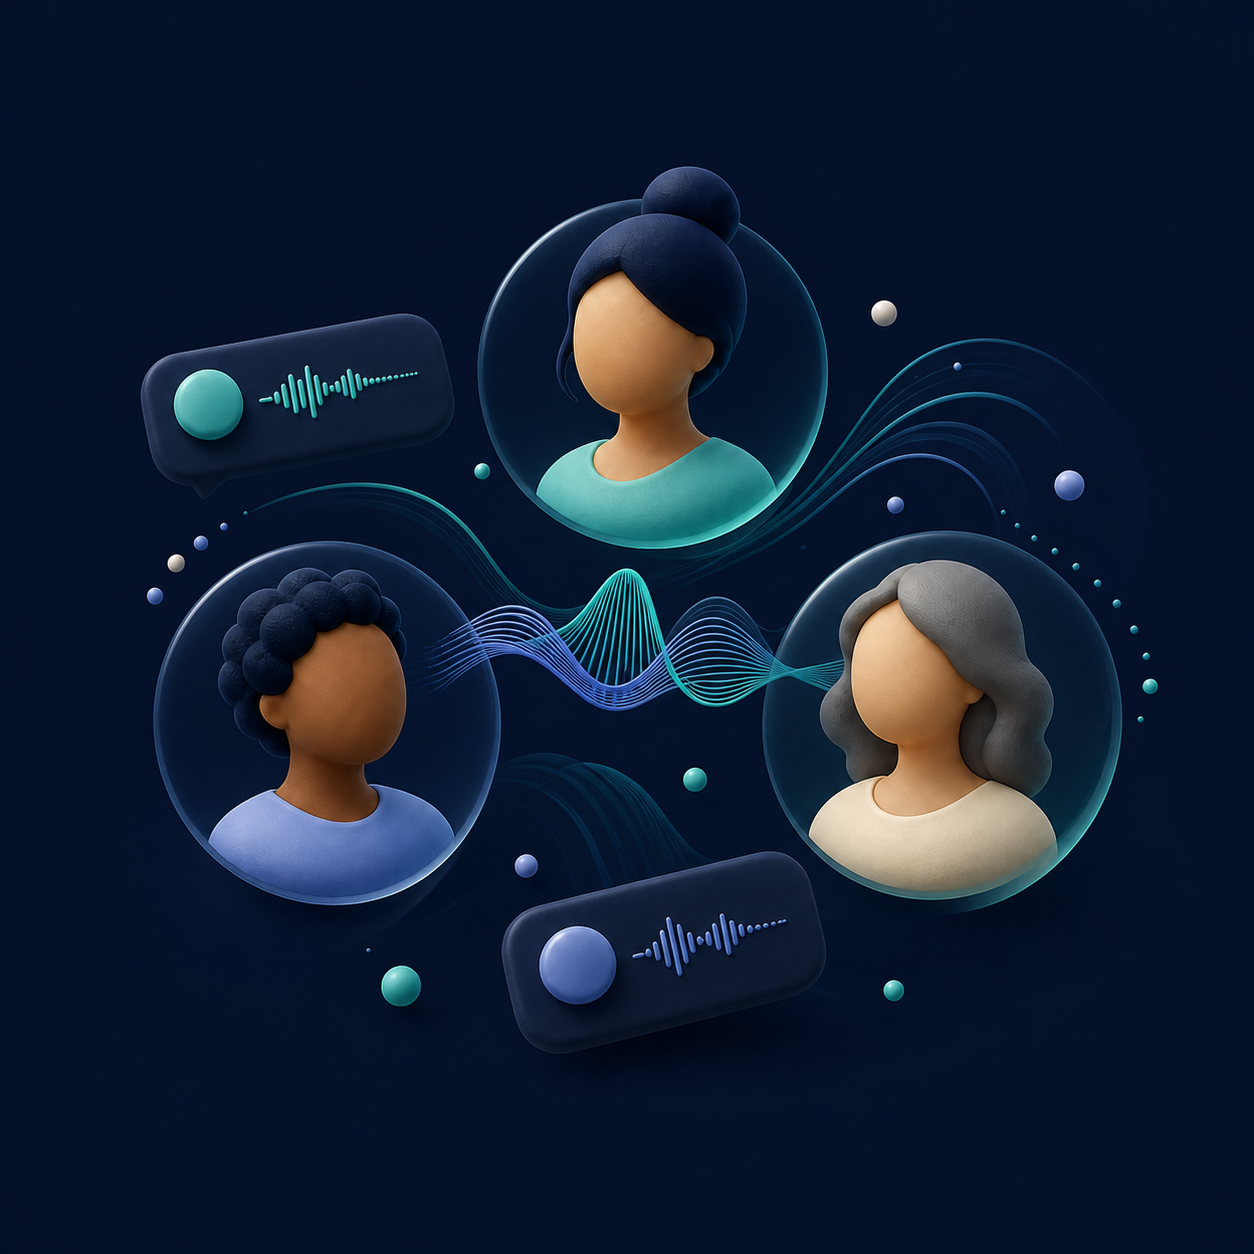
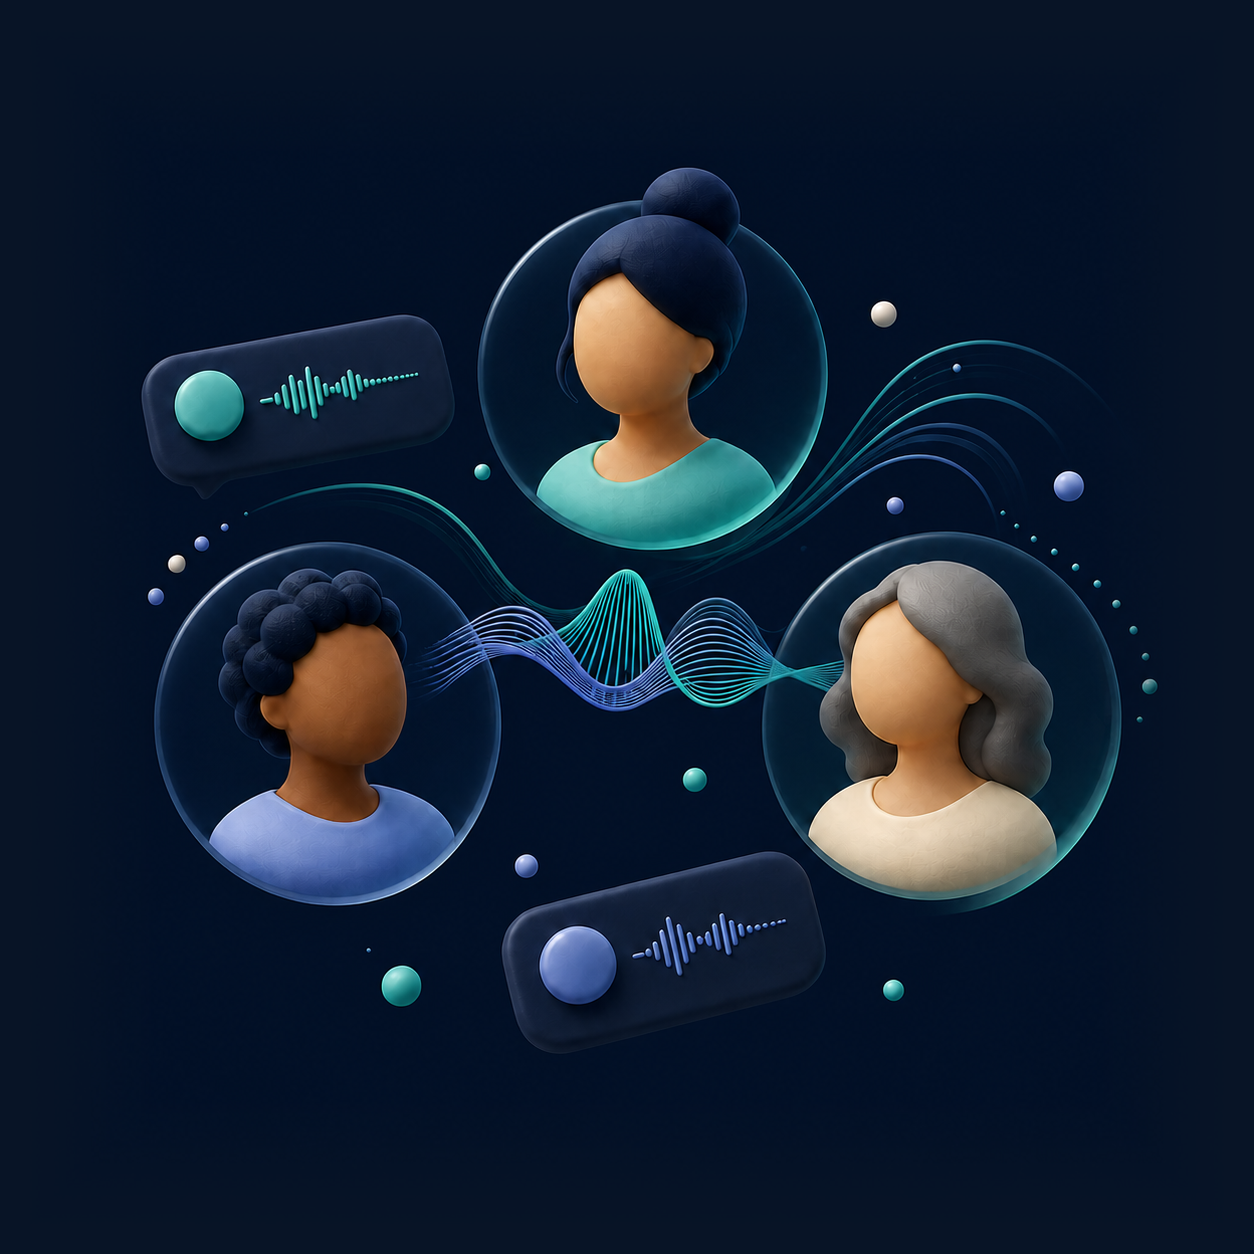
waveform changes

diff --git a/mobile-app/app/record.tsx b/mobile-app/app/record.tsx
@@ -103,7 +103,7 @@ export default function RecordScreen() {
     if (status !== "recording" || recorderState.metering === undefined) return;
     const level = normalizeMetering(recorderState.metering);
     setLevels((current) => nextMeterLevels(current, level));
-  }, [recorderState.durationMillis, recorderState.metering, status]);
+  }, [recorderState, status]);
   useEffect(() => () => reset(), [reset]);
   useEffect(() => {
     if (status !== "recording" && status !== "processing") {
@@ -263,36 +263,57 @@ export default function RecordScreen() {
         </Text>
       </View>
       <View style={styles.visualArea} accessibilityLiveRegion="polite">
-        <Animated.View
-          style={[
-            styles.pulseOuter,
-            { borderColor: colors.accentSoft },
-            {
-              opacity: pulse.interpolate({ inputRange: [0, 1], outputRange: [0.25, 0.65] }),
-              transform: [{ scale: pulse.interpolate({ inputRange: [0, 1], outputRange: [1, 1.2] }) }],
-            },
-          ]}
-          pointerEvents="none"
-        />
-        <Pressable
-          accessibilityRole="button"
-          accessibilityLabel={status === "idle" || status === "error" ? "Begin recording" : undefined}
-          disabled={starting || processing || active}
-          onPress={() => {
-            if (status === "idle" || status === "error") void start();
-          }}
-          style={({ pressed }) => [
-            styles.recordOrb,
-            { backgroundColor: processing ? colors.sageSoft : colors.accentSoft, borderColor: colors.surface },
-            pressed && (status === "idle" || status === "error") && { opacity: 0.85, transform: [{ scale: 0.97 }] },
-          ]}
-        >
-          <Ionicons
-            name={processing ? "sparkles" : starting ? "hourglass" : status === "paused" ? "pause" : "mic"}
-            size={38}
-            color={processing ? colors.sage : colors.accent}
+        <View style={styles.orbStage}>
+          <Animated.View
+            style={[
+              styles.pulseOuter,
+              { borderColor: colors.accentSoft },
+              {
+                opacity: pulse.interpolate({ inputRange: [0, 1], outputRange: [0.25, 0.65] }),
+                transform: [{ scale: pulse.interpolate({ inputRange: [0, 1], outputRange: [1, 1.2] }) }],
+              },
+            ]}
+            pointerEvents="none"
           />
-        </Pressable>
+          <Pressable
+            accessibilityRole="button"
+            accessibilityLabel={
+              status === "recording"
+                ? "Pause recording"
+                : status === "paused"
+                  ? "Resume recording"
+                  : status === "idle" || status === "error"
+                    ? "Begin recording"
+                    : undefined
+            }
+            disabled={starting || processing}
+            onPress={() => {
+              if (status === "idle" || status === "error") void start();
+              else if (active) void togglePause();
+            }}
+            style={({ pressed }) => [
+              styles.recordOrb,
+              { backgroundColor: processing ? colors.sageSoft : colors.accentSoft, borderColor: colors.surface },
+              pressed && !starting && !processing && { opacity: 0.85, transform: [{ scale: 0.97 }] },
+            ]}
+          >
+            <Ionicons
+              name={
+                processing
+                  ? "sparkles"
+                  : starting
+                    ? "hourglass"
+                    : status === "paused"
+                      ? "play"
+                      : status === "recording"
+                        ? "pause"
+                        : "mic"
+              }
+              size={38}
+              color={processing ? colors.sage : colors.accent}
+            />
+          </Pressable>
+        </View>
         <Text accessibilityLabel={`Recording time ${time(recorderState.durationMillis)}`} style={[styles.timer, { color: colors.ink }]}>
           {time(recorderState.durationMillis)}
         </Text>
@@ -396,7 +417,8 @@ const styles = StyleSheet.create({
   title: { fontSize: typeScale.title1, lineHeight: 40, fontWeight: "800", letterSpacing: -1, textAlign: "center", marginTop: spacing.lg },
   subtitle: { maxWidth: 320, fontSize: typeScale.body, lineHeight: 22, textAlign: "center", marginTop: spacing.xs },
   visualArea: { flex: 1, minHeight: 300, alignItems: "center", justifyContent: "center" },
-  pulseOuter: { position: "absolute", width: 132, height: 132, borderRadius: 66, borderWidth: 22, top: "20%" },
+  orbStage: { width: 160, height: 160, alignItems: "center", justifyContent: "center" },
+  pulseOuter: { position: "absolute", width: 132, height: 132, borderRadius: 66, borderWidth: 22 },
   recordOrb: { width: 112, height: 112, borderRadius: 56, borderWidth: 10, alignItems: "center", justifyContent: "center", ...shadows.floating },
   timer: { fontSize: 44, fontWeight: "400", letterSpacing: -1.2, fontVariant: ["tabular-nums"], marginTop: spacing.lg },
   status: { fontSize: 13, marginTop: spacing.xs },

diff --git a/mobile-app/src/utils/audioMeter.ts b/mobile-app/src/utils/audioMeter.ts
@@ -1,12 +1,24 @@
-/** Maps recorder decibels to a visual 0–1 level with a room-noise gate. */
+const NOISE_FLOOR_DB = -55;
+const VISUAL_PEAK_DB = -5;
+
+/** Maps recorder decibels to a visual 0–1 amplitude with a room-noise gate. */
 export function normalizeMetering(decibels: number): number {
-  if (!Number.isFinite(decibels) || decibels <= -55) return 0;
-  if (decibels >= -5) return 1;
-  const normalized = (decibels + 55) / 50;
-  return Math.pow(normalized, 1.15);
+  if (!Number.isFinite(decibels) || decibels <= NOISE_FLOOR_DB) return 0;
+  if (decibels >= VISUAL_PEAK_DB) return 1;
+
+  // Metering is logarithmic. Convert dB to linear amplitude before scaling it
+  // into the visible range; cube-root gamma keeps normal speech legible.
+  const amplitude = Math.pow(10, decibels / 20);
+  const floorAmplitude = Math.pow(10, NOISE_FLOOR_DB / 20);
+  const peakAmplitude = Math.pow(10, VISUAL_PEAK_DB / 20);
+  const normalized =
+    (amplitude - floorAmplitude) / (peakAmplitude - floorAmplitude);
+
+  return Math.cbrt(Math.max(0, Math.min(1, normalized)));
 }
 
 export function nextMeterLevels(current: number[], level: number): number[] {
-  const decayed = current.map((item) => item * (level === 0 ? 0.7 : 0.9));
-  return [...decayed.slice(1), level];
+  if (!current.length) return [];
+  const sample = Math.max(0, Math.min(1, level));
+  return [...current.slice(1), sample];
 }

diff --git a/mobile-app/src/utils/audioMeter.test.ts b/mobile-app/src/utils/audioMeter.test.ts
@@ -9,12 +9,19 @@ describe("audio meter", () => {
 
   it("maps speech and clips loud input", () => {
     expect(normalizeMetering(-45)).toBeGreaterThan(0.1);
-    expect(normalizeMetering(-25)).toBeGreaterThan(0.5);
+    expect(normalizeMetering(-25)).toBeGreaterThan(normalizeMetering(-45));
+    expect(normalizeMetering(-10)).toBeGreaterThan(normalizeMetering(-25));
     expect(normalizeMetering(0)).toBe(1);
   });
 
-  it("decays old peaks while adding the latest sample", () => {
-    expect(nextMeterLevels([1, 1, 1], 0)).toEqual([0.7, 0.7, 0]);
-    expect(nextMeterLevels([1, 1, 1], 0.5)).toEqual([0.9, 0.9, 0.5]);
+  it("preserves historical peaks in a fixed FIFO window", () => {
+    expect(nextMeterLevels([0.2, 0.7, 1], 0)).toEqual([0.7, 1, 0]);
+    expect(nextMeterLevels([0.2, 0.7, 1], 0.5)).toEqual([0.7, 1, 0.5]);
+  });
+
+  it("clamps invalid visual levels without changing the window size", () => {
+    expect(nextMeterLevels([0, 0], 2)).toEqual([0, 1]);
+    expect(nextMeterLevels([0, 0], -1)).toEqual([0, 0]);
+    expect(nextMeterLevels([], 0.5)).toEqual([]);
   });
 });
